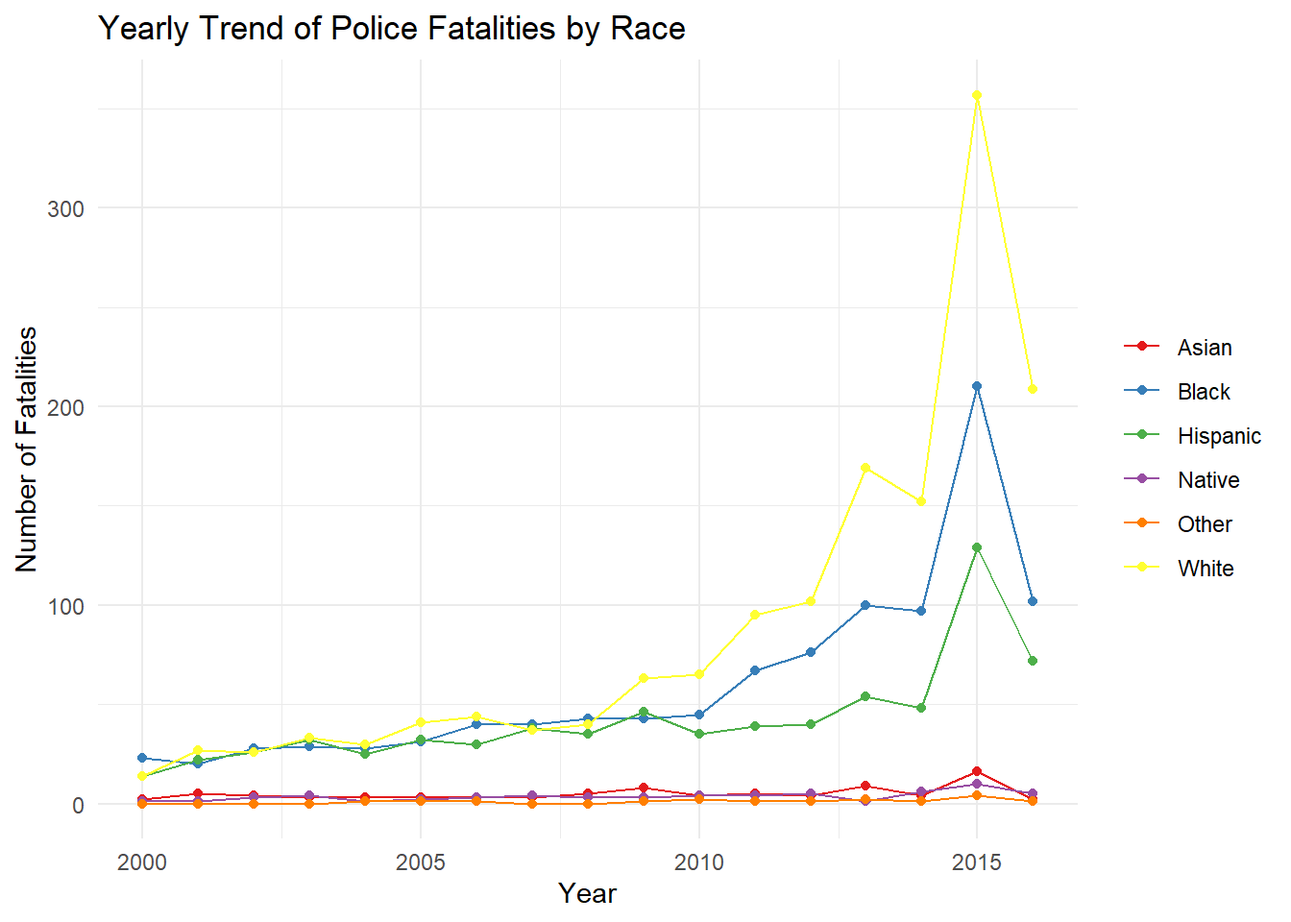
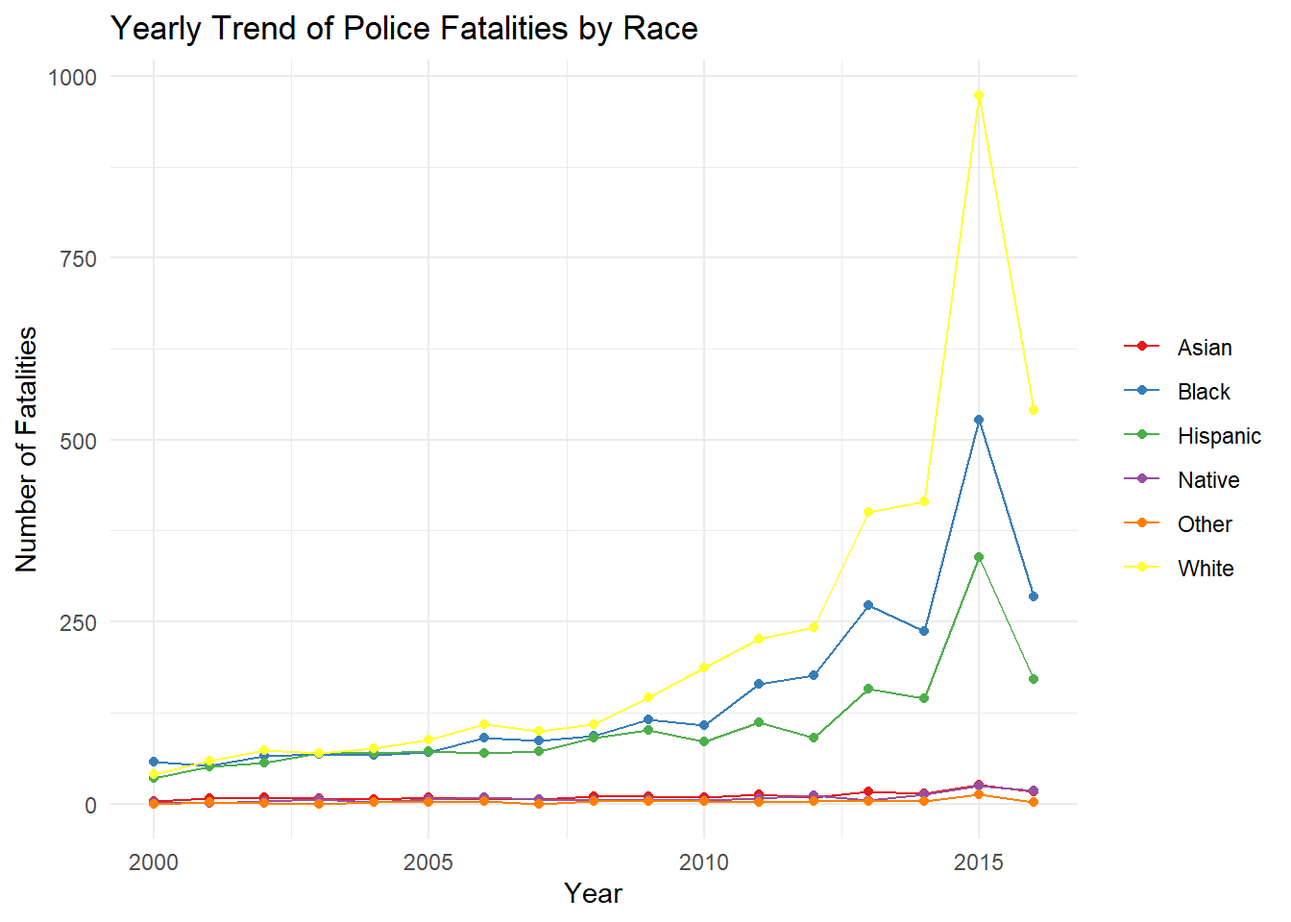
Built site for gh-pages

diff --git a/posts/2024-04-07-blog-post-4/blog-post-4.html b/posts/2024-04-07-blog-post-4/blog-post-4.html
@@ -181,87 +181,141 @@ pre > code.sourceCode > span > a:first-child::before { text-decoration: underlin
 
 <p><strong>Impact of Gender on Fatalities in Different States</strong> This plot focuses to explore the relationship between gender and fatalities across different states. This could help identify if certain states have more pronounced gender disparities in police-related fatalities.</p>
 <div class="cell">
-<div class="sourceCode cell-code" id="cb1"><pre class="sourceCode r code-with-copy"><code class="sourceCode r"><span id="cb1-1"><a href="#cb1-1" aria-hidden="true" tabindex="-1"></a><span class="fu">library</span>(tidyverse)</span></code><button title="Copy to Clipboard" class="code-copy-button"><i class="bi"></i></button></pre></div>
-<div class="cell-output cell-output-stderr">
-<pre><code>── Attaching core tidyverse packages ──────────────────────── tidyverse 2.0.0 ──
-✔ dplyr     1.1.4     ✔ readr     2.1.5
-✔ forcats   1.0.0     ✔ stringr   1.5.1
-✔ ggplot2   3.4.4     ✔ tibble    3.2.1
-✔ lubridate 1.9.3     ✔ tidyr     1.3.1
-✔ purrr     1.0.2     
-── Conflicts ────────────────────────────────────────── tidyverse_conflicts() ──
-✖ dplyr::filter() masks stats::filter()
-✖ dplyr::lag()    masks stats::lag()
-ℹ Use the conflicted package (&lt;http://conflicted.r-lib.org/&gt;) to force all conflicts to become errors</code></pre>
-</div>
-<div class="sourceCode cell-code" id="cb3"><pre class="sourceCode r code-with-copy"><code class="sourceCode r"><span id="cb3-1"><a href="#cb3-1" aria-hidden="true" tabindex="-1"></a>prc <span class="ot">&lt;-</span> <span class="fu">read_csv</span>(<span class="st">"dataset/police_fatalities.csv"</span>)</span></code><button title="Copy to Clipboard" class="code-copy-button"><i class="bi"></i></button></pre></div>
-<div class="cell-output cell-output-stderr">
-<pre><code>Rows: 12491 Columns: 12
-── Column specification ────────────────────────────────────────────────────────
-Delimiter: ","
-chr (8): Name, Gender, Race, Date, City, State, Manner_of_death, Armed
-dbl (2): UID, Age
-lgl (2): Mental_illness, Flee
-
-ℹ Use `spec()` to retrieve the full column specification for this data.
-ℹ Specify the column types or set `show_col_types = FALSE` to quiet this message.</code></pre>
-</div>
-<div class="sourceCode cell-code" id="cb5"><pre class="sourceCode r code-with-copy"><code class="sourceCode r"><span id="cb5-1"><a href="#cb5-1" aria-hidden="true" tabindex="-1"></a>prc <span class="sc">%&gt;%</span></span>
-<span id="cb5-2"><a href="#cb5-2" aria-hidden="true" tabindex="-1"></a>  <span class="fu">na.omit</span>() <span class="sc">%&gt;%</span></span>
-<span id="cb5-3"><a href="#cb5-3" aria-hidden="true" tabindex="-1"></a>  <span class="fu">count</span>(State, Gender) <span class="sc">%&gt;%</span></span>
-<span id="cb5-4"><a href="#cb5-4" aria-hidden="true" tabindex="-1"></a>  <span class="fu">ggplot</span>(<span class="fu">aes</span>(<span class="at">x =</span> <span class="fu">reorder</span>(State, n), <span class="at">y =</span> n, <span class="at">fill =</span> Gender)) <span class="sc">+</span></span>
-<span id="cb5-5"><a href="#cb5-5" aria-hidden="true" tabindex="-1"></a>  <span class="fu">geom_bar</span>(<span class="at">stat =</span> <span class="st">"identity"</span>, <span class="at">position =</span> <span class="st">"dodge"</span>) <span class="sc">+</span></span>
-<span id="cb5-6"><a href="#cb5-6" aria-hidden="true" tabindex="-1"></a>  <span class="fu">labs</span>(<span class="at">title =</span> <span class="st">"Police Fatalities by State and Gender"</span>,</span>
-<span id="cb5-7"><a href="#cb5-7" aria-hidden="true" tabindex="-1"></a>       <span class="at">x =</span> <span class="st">"State"</span>,</span>
-<span id="cb5-8"><a href="#cb5-8" aria-hidden="true" tabindex="-1"></a>       <span class="at">y =</span> <span class="st">"Number of Fatalities"</span>) <span class="sc">+</span></span>
-<span id="cb5-9"><a href="#cb5-9" aria-hidden="true" tabindex="-1"></a>  <span class="fu">theme</span>(<span class="at">axis.text.x =</span> <span class="fu">element_text</span>(<span class="at">angle =</span> <span class="dv">45</span>, <span class="at">hjust =</span> <span class="dv">1</span>)) <span class="sc">+</span></span>
-<span id="cb5-10"><a href="#cb5-10" aria-hidden="true" tabindex="-1"></a>  <span class="fu">scale_fill_brewer</span>(<span class="at">palette =</span> <span class="st">"Set2"</span>)</span></code><button title="Copy to Clipboard" class="code-copy-button"><i class="bi"></i></button></pre></div>
+<div class="sourceCode cell-code" id="cb1"><pre class="sourceCode r code-with-copy"><code class="sourceCode r"><span id="cb1-1"><a href="#cb1-1" aria-hidden="true" tabindex="-1"></a><span class="fu">suppressPackageStartupMessages</span>(<span class="fu">library</span>(tidyverse))</span>
+<span id="cb1-2"><a href="#cb1-2" aria-hidden="true" tabindex="-1"></a></span>
+<span id="cb1-3"><a href="#cb1-3" aria-hidden="true" tabindex="-1"></a>prc <span class="ot">&lt;-</span> <span class="fu">read_csv</span>(<span class="st">"dataset/police_fatalities.csv"</span>, <span class="at">show_col_types =</span> <span class="cn">FALSE</span>)</span>
+<span id="cb1-4"><a href="#cb1-4" aria-hidden="true" tabindex="-1"></a></span>
+<span id="cb1-5"><a href="#cb1-5" aria-hidden="true" tabindex="-1"></a>prc <span class="sc">%&gt;%</span></span>
+<span id="cb1-6"><a href="#cb1-6" aria-hidden="true" tabindex="-1"></a>  <span class="fu">na.omit</span>() <span class="sc">%&gt;%</span></span>
+<span id="cb1-7"><a href="#cb1-7" aria-hidden="true" tabindex="-1"></a>  <span class="fu">count</span>(State, Gender) <span class="sc">%&gt;%</span></span>
+<span id="cb1-8"><a href="#cb1-8" aria-hidden="true" tabindex="-1"></a>  <span class="fu">ggplot</span>(<span class="fu">aes</span>(<span class="at">x =</span> <span class="fu">reorder</span>(State, n), <span class="at">y =</span> n, <span class="at">fill =</span> Gender)) <span class="sc">+</span></span>
+<span id="cb1-9"><a href="#cb1-9" aria-hidden="true" tabindex="-1"></a>  <span class="fu">geom_bar</span>(<span class="at">stat =</span> <span class="st">"identity"</span>, <span class="at">position =</span> <span class="st">"dodge"</span>) <span class="sc">+</span></span>
+<span id="cb1-10"><a href="#cb1-10" aria-hidden="true" tabindex="-1"></a>  <span class="fu">labs</span>(<span class="at">title =</span> <span class="st">"Police Fatalities by State and Gender"</span>,</span>
+<span id="cb1-11"><a href="#cb1-11" aria-hidden="true" tabindex="-1"></a>       <span class="at">x =</span> <span class="st">"State"</span>,</span>
+<span id="cb1-12"><a href="#cb1-12" aria-hidden="true" tabindex="-1"></a>       <span class="at">y =</span> <span class="st">"Number of Fatalities"</span>) <span class="sc">+</span></span>
+<span id="cb1-13"><a href="#cb1-13" aria-hidden="true" tabindex="-1"></a>  <span class="fu">theme</span>(<span class="at">axis.text.x =</span> <span class="fu">element_text</span>(<span class="at">angle =</span> <span class="dv">45</span>, <span class="at">hjust =</span> <span class="dv">1</span>)) <span class="sc">+</span></span>
+<span id="cb1-14"><a href="#cb1-14" aria-hidden="true" tabindex="-1"></a>  <span class="fu">scale_fill_brewer</span>(<span class="at">palette =</span> <span class="st">"Set2"</span>)</span></code><button title="Copy to Clipboard" class="code-copy-button"><i class="bi"></i></button></pre></div>
 <div class="cell-output-display">
 <p><img src="blog-post-4_files/figure-html/unnamed-chunk-1-1.png" class="img-fluid" width="672"></p>
 </div>
 </div>
 <p><strong>Yearly Trend of Police Fatalities by Race</strong> This plot the trend of police fatalities over the years, broken down by race. This can show if certain races have been more affected over time and how the trends have changed.</p>
 <div class="cell">
-<div class="sourceCode cell-code" id="cb6"><pre class="sourceCode r code-with-copy"><code class="sourceCode r"><span id="cb6-1"><a href="#cb6-1" aria-hidden="true" tabindex="-1"></a><span class="fu">library</span>(tidyverse)</span>
-<span id="cb6-2"><a href="#cb6-2" aria-hidden="true" tabindex="-1"></a><span class="fu">library</span>(lubridate)</span>
-<span id="cb6-3"><a href="#cb6-3" aria-hidden="true" tabindex="-1"></a><span class="fu">library</span>(readr)</span>
-<span id="cb6-4"><a href="#cb6-4" aria-hidden="true" tabindex="-1"></a></span>
-<span id="cb6-5"><a href="#cb6-5" aria-hidden="true" tabindex="-1"></a>police_data_clean <span class="ot">&lt;-</span> <span class="fu">read_csv</span>(<span class="st">"dataset/police_fatalities.csv"</span>)</span></code><button title="Copy to Clipboard" class="code-copy-button"><i class="bi"></i></button></pre></div>
-<div class="cell-output cell-output-stderr">
-<pre><code>Rows: 12491 Columns: 12
-── Column specification ────────────────────────────────────────────────────────
-Delimiter: ","
-chr (8): Name, Gender, Race, Date, City, State, Manner_of_death, Armed
-dbl (2): UID, Age
-lgl (2): Mental_illness, Flee
-
-ℹ Use `spec()` to retrieve the full column specification for this data.
-ℹ Specify the column types or set `show_col_types = FALSE` to quiet this message.</code></pre>
-</div>
-<div class="sourceCode cell-code" id="cb8"><pre class="sourceCode r code-with-copy"><code class="sourceCode r"><span id="cb8-1"><a href="#cb8-1" aria-hidden="true" tabindex="-1"></a>annual_trends_by_race <span class="ot">&lt;-</span> police_data_clean <span class="sc">%&gt;%</span></span>
-<span id="cb8-2"><a href="#cb8-2" aria-hidden="true" tabindex="-1"></a>  <span class="fu">mutate</span>(<span class="at">Date =</span> <span class="fu">dmy</span>(Date), <span class="at">Year =</span> <span class="fu">year</span>(Date)) <span class="sc">%&gt;%</span></span>
-<span id="cb8-3"><a href="#cb8-3" aria-hidden="true" tabindex="-1"></a>  <span class="fu">drop_na</span>(Year, Race) <span class="sc">%&gt;%</span></span>
-<span id="cb8-4"><a href="#cb8-4" aria-hidden="true" tabindex="-1"></a>  <span class="fu">count</span>(Year, Race) <span class="sc">%&gt;%</span></span>
-<span id="cb8-5"><a href="#cb8-5" aria-hidden="true" tabindex="-1"></a>  <span class="fu">spread</span>(<span class="at">key =</span> Race, <span class="at">value =</span> n, <span class="at">fill =</span> <span class="dv">0</span>) <span class="sc">%&gt;%</span></span>
-<span id="cb8-6"><a href="#cb8-6" aria-hidden="true" tabindex="-1"></a>  <span class="fu">gather</span>(<span class="at">key =</span> <span class="st">'Race'</span>, <span class="at">value =</span> <span class="st">'Fatalities'</span>, <span class="sc">-</span>Year)</span></code><button title="Copy to Clipboard" class="code-copy-button"><i class="bi"></i></button></pre></div>
-<div class="cell-output cell-output-stderr">
-<pre><code>Warning: There was 1 warning in `mutate()`.
-ℹ In argument: `Date = dmy(Date)`.
-Caused by warning:
-!  7488 failed to parse.</code></pre>
-</div>
-<div class="sourceCode cell-code" id="cb10"><pre class="sourceCode r code-with-copy"><code class="sourceCode r"><span id="cb10-1"><a href="#cb10-1" aria-hidden="true" tabindex="-1"></a>annual_trends_by_race <span class="sc">%&gt;%</span></span>
-<span id="cb10-2"><a href="#cb10-2" aria-hidden="true" tabindex="-1"></a>  <span class="fu">ggplot</span>(<span class="fu">aes</span>(<span class="at">x =</span> Year, <span class="at">y =</span> Fatalities, <span class="at">color =</span> Race)) <span class="sc">+</span></span>
-<span id="cb10-3"><a href="#cb10-3" aria-hidden="true" tabindex="-1"></a>  <span class="fu">geom_line</span>() <span class="sc">+</span> </span>
-<span id="cb10-4"><a href="#cb10-4" aria-hidden="true" tabindex="-1"></a>  <span class="fu">geom_point</span>() <span class="sc">+</span> </span>
-<span id="cb10-5"><a href="#cb10-5" aria-hidden="true" tabindex="-1"></a>  <span class="fu">labs</span>(<span class="at">title =</span> <span class="st">"Yearly Trend of Police Fatalities by Race"</span>,</span>
-<span id="cb10-6"><a href="#cb10-6" aria-hidden="true" tabindex="-1"></a>       <span class="at">x =</span> <span class="st">"Year"</span>,</span>
-<span id="cb10-7"><a href="#cb10-7" aria-hidden="true" tabindex="-1"></a>       <span class="at">y =</span> <span class="st">"Number of Fatalities"</span>) <span class="sc">+</span></span>
-<span id="cb10-8"><a href="#cb10-8" aria-hidden="true" tabindex="-1"></a>  <span class="fu">theme_minimal</span>() <span class="sc">+</span></span>
-<span id="cb10-9"><a href="#cb10-9" aria-hidden="true" tabindex="-1"></a>  <span class="fu">scale_color_brewer</span>(<span class="at">palette =</span> <span class="st">"Set1"</span>) <span class="sc">+</span></span>
-<span id="cb10-10"><a href="#cb10-10" aria-hidden="true" tabindex="-1"></a>  <span class="fu">theme</span>(<span class="at">legend.title =</span> <span class="fu">element_blank</span>()) </span></code><button title="Copy to Clipboard" class="code-copy-button"><i class="bi"></i></button></pre></div>
+<div class="sourceCode cell-code" id="cb2"><pre class="sourceCode r code-with-copy"><code class="sourceCode r"><span id="cb2-1"><a href="#cb2-1" aria-hidden="true" tabindex="-1"></a><span class="fu">library</span>(tidyverse)</span>
+<span id="cb2-2"><a href="#cb2-2" aria-hidden="true" tabindex="-1"></a><span class="fu">library</span>(lubridate)</span>
+<span id="cb2-3"><a href="#cb2-3" aria-hidden="true" tabindex="-1"></a><span class="fu">library</span>(readr)</span>
+<span id="cb2-4"><a href="#cb2-4" aria-hidden="true" tabindex="-1"></a></span>
+<span id="cb2-5"><a href="#cb2-5" aria-hidden="true" tabindex="-1"></a>police_data_clean <span class="ot">&lt;-</span> <span class="fu">read_csv</span>(<span class="st">"dataset/police_fatalities.csv"</span>, <span class="at">show_col_types =</span> <span class="cn">FALSE</span>)</span>
+<span id="cb2-6"><a href="#cb2-6" aria-hidden="true" tabindex="-1"></a></span>
+<span id="cb2-7"><a href="#cb2-7" aria-hidden="true" tabindex="-1"></a>annual_trends_by_race <span class="ot">&lt;-</span> police_data_clean <span class="sc">%&gt;%</span></span>
+<span id="cb2-8"><a href="#cb2-8" aria-hidden="true" tabindex="-1"></a>  <span class="fu">mutate</span>(<span class="at">Date =</span> <span class="fu">mdy</span>(Date), <span class="at">Year =</span> <span class="fu">year</span>(Date)) <span class="sc">%&gt;%</span></span>
+<span id="cb2-9"><a href="#cb2-9" aria-hidden="true" tabindex="-1"></a>  <span class="fu">drop_na</span>(Year, Race) <span class="sc">%&gt;%</span></span>
+<span id="cb2-10"><a href="#cb2-10" aria-hidden="true" tabindex="-1"></a>  <span class="fu">count</span>(Year, Race) <span class="sc">%&gt;%</span></span>
+<span id="cb2-11"><a href="#cb2-11" aria-hidden="true" tabindex="-1"></a>  <span class="fu">spread</span>(<span class="at">key =</span> Race, <span class="at">value =</span> n, <span class="at">fill =</span> <span class="dv">0</span>) <span class="sc">%&gt;%</span></span>
+<span id="cb2-12"><a href="#cb2-12" aria-hidden="true" tabindex="-1"></a>  <span class="fu">gather</span>(<span class="at">key =</span> <span class="st">'Race'</span>, <span class="at">value =</span> <span class="st">'Fatalities'</span>, <span class="sc">-</span>Year)</span>
+<span id="cb2-13"><a href="#cb2-13" aria-hidden="true" tabindex="-1"></a></span>
+<span id="cb2-14"><a href="#cb2-14" aria-hidden="true" tabindex="-1"></a>annual_trends_by_race <span class="sc">%&gt;%</span></span>
+<span id="cb2-15"><a href="#cb2-15" aria-hidden="true" tabindex="-1"></a>  <span class="fu">ggplot</span>(<span class="fu">aes</span>(<span class="at">x =</span> Year, <span class="at">y =</span> Fatalities, <span class="at">color =</span> Race)) <span class="sc">+</span></span>
+<span id="cb2-16"><a href="#cb2-16" aria-hidden="true" tabindex="-1"></a>  <span class="fu">geom_line</span>() <span class="sc">+</span> </span>
+<span id="cb2-17"><a href="#cb2-17" aria-hidden="true" tabindex="-1"></a>  <span class="fu">geom_point</span>() <span class="sc">+</span> </span>
+<span id="cb2-18"><a href="#cb2-18" aria-hidden="true" tabindex="-1"></a>  <span class="fu">labs</span>(<span class="at">title =</span> <span class="st">"Yearly Trend of Police Fatalities by Race"</span>,</span>
+<span id="cb2-19"><a href="#cb2-19" aria-hidden="true" tabindex="-1"></a>       <span class="at">x =</span> <span class="st">"Year"</span>,</span>
+<span id="cb2-20"><a href="#cb2-20" aria-hidden="true" tabindex="-1"></a>       <span class="at">y =</span> <span class="st">"Number of Fatalities"</span>) <span class="sc">+</span></span>
+<span id="cb2-21"><a href="#cb2-21" aria-hidden="true" tabindex="-1"></a>  <span class="fu">theme_minimal</span>() <span class="sc">+</span></span>
+<span id="cb2-22"><a href="#cb2-22" aria-hidden="true" tabindex="-1"></a>  <span class="fu">scale_color_brewer</span>(<span class="at">palette =</span> <span class="st">"Set1"</span>) <span class="sc">+</span></span>
+<span id="cb2-23"><a href="#cb2-23" aria-hidden="true" tabindex="-1"></a>  <span class="fu">theme</span>(<span class="at">legend.title =</span> <span class="fu">element_blank</span>()) </span></code><button title="Copy to Clipboard" class="code-copy-button"><i class="bi"></i></button></pre></div>
 <div class="cell-output-display">
 <p><img src="blog-post-4_files/figure-html/unnamed-chunk-2-1.png" class="img-fluid" width="672"></p>
+</div>
+</div>
+<p>Age Histogram: Displays the frequency distribution of individuals’ ages involved in the incidents.</p>
+<p>Bar Plot of Manner of Death by Gender and Race: Compares the number of incidents by manner of death across different races and genders.</p>
+<div class="cell">
+<div class="sourceCode cell-code" id="cb3"><pre class="sourceCode r code-with-copy"><code class="sourceCode r"><span id="cb3-1"><a href="#cb3-1" aria-hidden="true" tabindex="-1"></a><span class="fu">library</span>(tidyverse)</span>
+<span id="cb3-2"><a href="#cb3-2" aria-hidden="true" tabindex="-1"></a><span class="fu">library</span>(lubridate)</span>
+<span id="cb3-3"><a href="#cb3-3" aria-hidden="true" tabindex="-1"></a><span class="fu">library</span>(ggplot2)</span>
+<span id="cb3-4"><a href="#cb3-4" aria-hidden="true" tabindex="-1"></a><span class="fu">library</span>(broom)</span>
+<span id="cb3-5"><a href="#cb3-5" aria-hidden="true" tabindex="-1"></a></span>
+<span id="cb3-6"><a href="#cb3-6" aria-hidden="true" tabindex="-1"></a><span class="fu">library</span>(nnet)</span>
+<span id="cb3-7"><a href="#cb3-7" aria-hidden="true" tabindex="-1"></a></span>
+<span id="cb3-8"><a href="#cb3-8" aria-hidden="true" tabindex="-1"></a>data <span class="ot">&lt;-</span> <span class="fu">read.csv</span>(<span class="st">"dataset/police_fatalities.csv"</span>) <span class="sc">%&gt;%</span></span>
+<span id="cb3-9"><a href="#cb3-9" aria-hidden="true" tabindex="-1"></a>  <span class="fu">mutate</span>(</span>
+<span id="cb3-10"><a href="#cb3-10" aria-hidden="true" tabindex="-1"></a>    <span class="at">Date =</span> <span class="fu">mdy</span>(Date), </span>
+<span id="cb3-11"><a href="#cb3-11" aria-hidden="true" tabindex="-1"></a>    <span class="at">Gender =</span> <span class="fu">as.factor</span>(Gender),</span>
+<span id="cb3-12"><a href="#cb3-12" aria-hidden="true" tabindex="-1"></a>    <span class="at">Race =</span> <span class="fu">as.factor</span>(Race),</span>
+<span id="cb3-13"><a href="#cb3-13" aria-hidden="true" tabindex="-1"></a>    <span class="at">Manner_of_death =</span> <span class="fu">as.factor</span>(Manner_of_death),</span>
+<span id="cb3-14"><a href="#cb3-14" aria-hidden="true" tabindex="-1"></a>    <span class="at">Armed =</span> <span class="fu">as.factor</span>(Armed),</span>
+<span id="cb3-15"><a href="#cb3-15" aria-hidden="true" tabindex="-1"></a>    <span class="at">Mental_illness =</span> <span class="fu">as.factor</span>(Mental_illness),</span>
+<span id="cb3-16"><a href="#cb3-16" aria-hidden="true" tabindex="-1"></a>    <span class="at">Flee =</span> <span class="fu">as.factor</span>(Flee)</span>
+<span id="cb3-17"><a href="#cb3-17" aria-hidden="true" tabindex="-1"></a>  )</span>
+<span id="cb3-18"><a href="#cb3-18" aria-hidden="true" tabindex="-1"></a></span>
+<span id="cb3-19"><a href="#cb3-19" aria-hidden="true" tabindex="-1"></a>summary_statistics <span class="ot">&lt;-</span> data <span class="sc">%&gt;%</span></span>
+<span id="cb3-20"><a href="#cb3-20" aria-hidden="true" tabindex="-1"></a>  <span class="fu">summarise</span>(</span>
+<span id="cb3-21"><a href="#cb3-21" aria-hidden="true" tabindex="-1"></a>    <span class="at">Average_Age =</span> <span class="fu">mean</span>(Age, <span class="at">na.rm =</span> <span class="cn">TRUE</span>),</span>
+<span id="cb3-22"><a href="#cb3-22" aria-hidden="true" tabindex="-1"></a>    <span class="at">SD_Age =</span> <span class="fu">sd</span>(Age, <span class="at">na.rm =</span> <span class="cn">TRUE</span>),</span>
+<span id="cb3-23"><a href="#cb3-23" aria-hidden="true" tabindex="-1"></a>    <span class="at">Count =</span> <span class="fu">n</span>()</span>
+<span id="cb3-24"><a href="#cb3-24" aria-hidden="true" tabindex="-1"></a>  )</span>
+<span id="cb3-25"><a href="#cb3-25" aria-hidden="true" tabindex="-1"></a></span>
+<span id="cb3-26"><a href="#cb3-26" aria-hidden="true" tabindex="-1"></a>age_histogram <span class="ot">&lt;-</span> <span class="fu">ggplot</span>(data, <span class="fu">aes</span>(<span class="at">x =</span> Age)) <span class="sc">+</span></span>
+<span id="cb3-27"><a href="#cb3-27" aria-hidden="true" tabindex="-1"></a>  <span class="fu">geom_histogram</span>(<span class="at">binwidth =</span> <span class="dv">5</span>, <span class="at">fill =</span> <span class="st">"blue"</span>, <span class="at">color =</span> <span class="st">"black"</span>) <span class="sc">+</span></span>
+<span id="cb3-28"><a href="#cb3-28" aria-hidden="true" tabindex="-1"></a>  <span class="fu">theme_minimal</span>() <span class="sc">+</span></span>
+<span id="cb3-29"><a href="#cb3-29" aria-hidden="true" tabindex="-1"></a>  <span class="fu">labs</span>(<span class="at">title =</span> <span class="st">"Distribution of Age"</span>, <span class="at">x =</span> <span class="st">"Age"</span>, <span class="at">y =</span> <span class="st">"Count"</span>)</span>
+<span id="cb3-30"><a href="#cb3-30" aria-hidden="true" tabindex="-1"></a></span>
+<span id="cb3-31"><a href="#cb3-31" aria-hidden="true" tabindex="-1"></a>death_by_demographics <span class="ot">&lt;-</span> <span class="fu">ggplot</span>(data, <span class="fu">aes</span>(<span class="at">x =</span> Race, <span class="at">fill =</span> Gender)) <span class="sc">+</span></span>
+<span id="cb3-32"><a href="#cb3-32" aria-hidden="true" tabindex="-1"></a>  <span class="fu">geom_bar</span>(<span class="at">position =</span> <span class="st">"dodge"</span>) <span class="sc">+</span></span>
+<span id="cb3-33"><a href="#cb3-33" aria-hidden="true" tabindex="-1"></a>  <span class="fu">theme_minimal</span>() <span class="sc">+</span></span>
+<span id="cb3-34"><a href="#cb3-34" aria-hidden="true" tabindex="-1"></a>  <span class="fu">labs</span>(<span class="at">title =</span> <span class="st">"Manner of Death by Gender and Race"</span>, <span class="at">x =</span> <span class="st">"Race"</span>, <span class="at">y =</span> <span class="st">"Count"</span>)</span>
+<span id="cb3-35"><a href="#cb3-35" aria-hidden="true" tabindex="-1"></a></span>
+<span id="cb3-36"><a href="#cb3-36" aria-hidden="true" tabindex="-1"></a>logistic_model <span class="ot">&lt;-</span> <span class="fu">glm</span>(Armed <span class="sc">~</span> Age <span class="sc">+</span> Gender <span class="sc">+</span> Race <span class="sc">+</span> Mental_illness, </span>
+<span id="cb3-37"><a href="#cb3-37" aria-hidden="true" tabindex="-1"></a>                      <span class="at">data =</span> data, <span class="at">family =</span> <span class="st">"binomial"</span>)</span>
+<span id="cb3-38"><a href="#cb3-38" aria-hidden="true" tabindex="-1"></a>logistic_model_summary <span class="ot">&lt;-</span> <span class="fu">summary</span>(logistic_model)</span>
+<span id="cb3-39"><a href="#cb3-39" aria-hidden="true" tabindex="-1"></a></span>
+<span id="cb3-40"><a href="#cb3-40" aria-hidden="true" tabindex="-1"></a>multinom_model <span class="ot">&lt;-</span> <span class="fu">multinom</span>(Manner_of_death <span class="sc">~</span> Age <span class="sc">+</span> Gender <span class="sc">+</span> Race <span class="sc">+</span> Mental_illness, <span class="at">data =</span> data)</span></code><button title="Copy to Clipboard" class="code-copy-button"><i class="bi"></i></button></pre></div>
+<div class="cell-output cell-output-stdout">
+<pre><code># weights:  48 (33 variable)
+initial  value 16993.196279 
+iter  10 value 3526.384408
+iter  20 value 3018.452673
+iter  30 value 2924.878850
+iter  40 value 2899.497411
+iter  50 value 2899.477616
+iter  60 value 2899.473481
+iter  60 value 2899.473459
+iter  60 value 2899.473459
+final  value 2899.473459 
+converged</code></pre>
+</div>
+<div class="sourceCode cell-code" id="cb5"><pre class="sourceCode r code-with-copy"><code class="sourceCode r"><span id="cb5-1"><a href="#cb5-1" aria-hidden="true" tabindex="-1"></a>multinom_model_summary <span class="ot">&lt;-</span> <span class="fu">summary</span>(multinom_model)</span>
+<span id="cb5-2"><a href="#cb5-2" aria-hidden="true" tabindex="-1"></a></span>
+<span id="cb5-3"><a href="#cb5-3" aria-hidden="true" tabindex="-1"></a>logistic_model_table <span class="ot">&lt;-</span> <span class="fu">tidy</span>(logistic_model)</span>
+<span id="cb5-4"><a href="#cb5-4" aria-hidden="true" tabindex="-1"></a></span>
+<span id="cb5-5"><a href="#cb5-5" aria-hidden="true" tabindex="-1"></a><span class="fu">print</span>(age_histogram)</span></code><button title="Copy to Clipboard" class="code-copy-button"><i class="bi"></i></button></pre></div>
+<div class="cell-output cell-output-stderr">
+<pre><code>Warning: Removed 233 rows containing non-finite values (`stat_bin()`).</code></pre>
+</div>
+<div class="cell-output-display">
+<p><img src="blog-post-4_files/figure-html/unnamed-chunk-3-1.png" class="img-fluid" width="672"></p>
+</div>
+<div class="sourceCode cell-code" id="cb7"><pre class="sourceCode r code-with-copy"><code class="sourceCode r"><span id="cb7-1"><a href="#cb7-1" aria-hidden="true" tabindex="-1"></a><span class="fu">print</span>(death_by_demographics)</span></code><button title="Copy to Clipboard" class="code-copy-button"><i class="bi"></i></button></pre></div>
+<div class="cell-output-display">
+<p><img src="blog-post-4_files/figure-html/unnamed-chunk-3-2.png" class="img-fluid" width="672"></p>
+</div>
+<div class="sourceCode cell-code" id="cb8"><pre class="sourceCode r code-with-copy"><code class="sourceCode r"><span id="cb8-1"><a href="#cb8-1" aria-hidden="true" tabindex="-1"></a><span class="fu">print</span>(logistic_model_table)</span></code><button title="Copy to Clipboard" class="code-copy-button"><i class="bi"></i></button></pre></div>
+<div class="cell-output cell-output-stdout">
+<pre><code># A tibble: 11 × 5
+   term               estimate std.error statistic  p.value
+   &lt;chr&gt;                 &lt;dbl&gt;     &lt;dbl&gt;     &lt;dbl&gt;    &lt;dbl&gt;
+ 1 (Intercept)        -0.693     0.919      -0.754 4.51e- 1
+ 2 Age                 0.00396   0.00146     2.71  6.70e- 3
+ 3 GenderFemale        0.374     0.922       0.406 6.85e- 1
+ 4 GenderMale          0.518     0.918       0.564 5.73e- 1
+ 5 RaceAsian           0.0773    0.157       0.492 6.23e- 1
+ 6 RaceBlack           0.248     0.0523      4.73  2.24e- 6
+ 7 RaceHispanic        0.124     0.0583      2.12  3.38e- 2
+ 8 RaceNative          0.238     0.180       1.32  1.87e- 1
+ 9 RaceOther          -0.262     0.293      -0.894 3.72e- 1
+10 RaceWhite           0.350     0.0465      7.53  5.10e-14
+11 Mental_illnessTRUE  0.216     0.0456      4.73  2.23e- 6</code></pre>
 </div>
 </div>
 

diff --git a/index.html b/index.html
@@ -176,7 +176,7 @@ ul.task-list li input[type="checkbox"] {
 
 <div class="quarto-listing quarto-listing-container-default" id="listing-listing">
 <div class="list quarto-listing-default">
-<div class="quarto-post image-right" data-index="0" data-listing-date-sort="1712462400000" data-listing-file-modified-sort="1712555731318" data-listing-date-modified-sort="1712462400000" data-listing-reading-time-sort="2">
+<div class="quarto-post image-right" data-index="0" data-listing-date-sort="1712462400000" data-listing-file-modified-sort="1712602928658" data-listing-date-modified-sort="1712462400000" data-listing-reading-time-sort="3">
 <div class="thumbnail">
 <p><a href="./posts/2024-04-07-blog-post-4/blog-post-4.html"> <p class="card-img-top"><img src="posts\2024-04-07-blog-post-4\blog-post-4_files\figure-html\unnamed-chunk-1-1.png"  class="thumbnail-image card-img"/></p> </a></p>
 </div>
